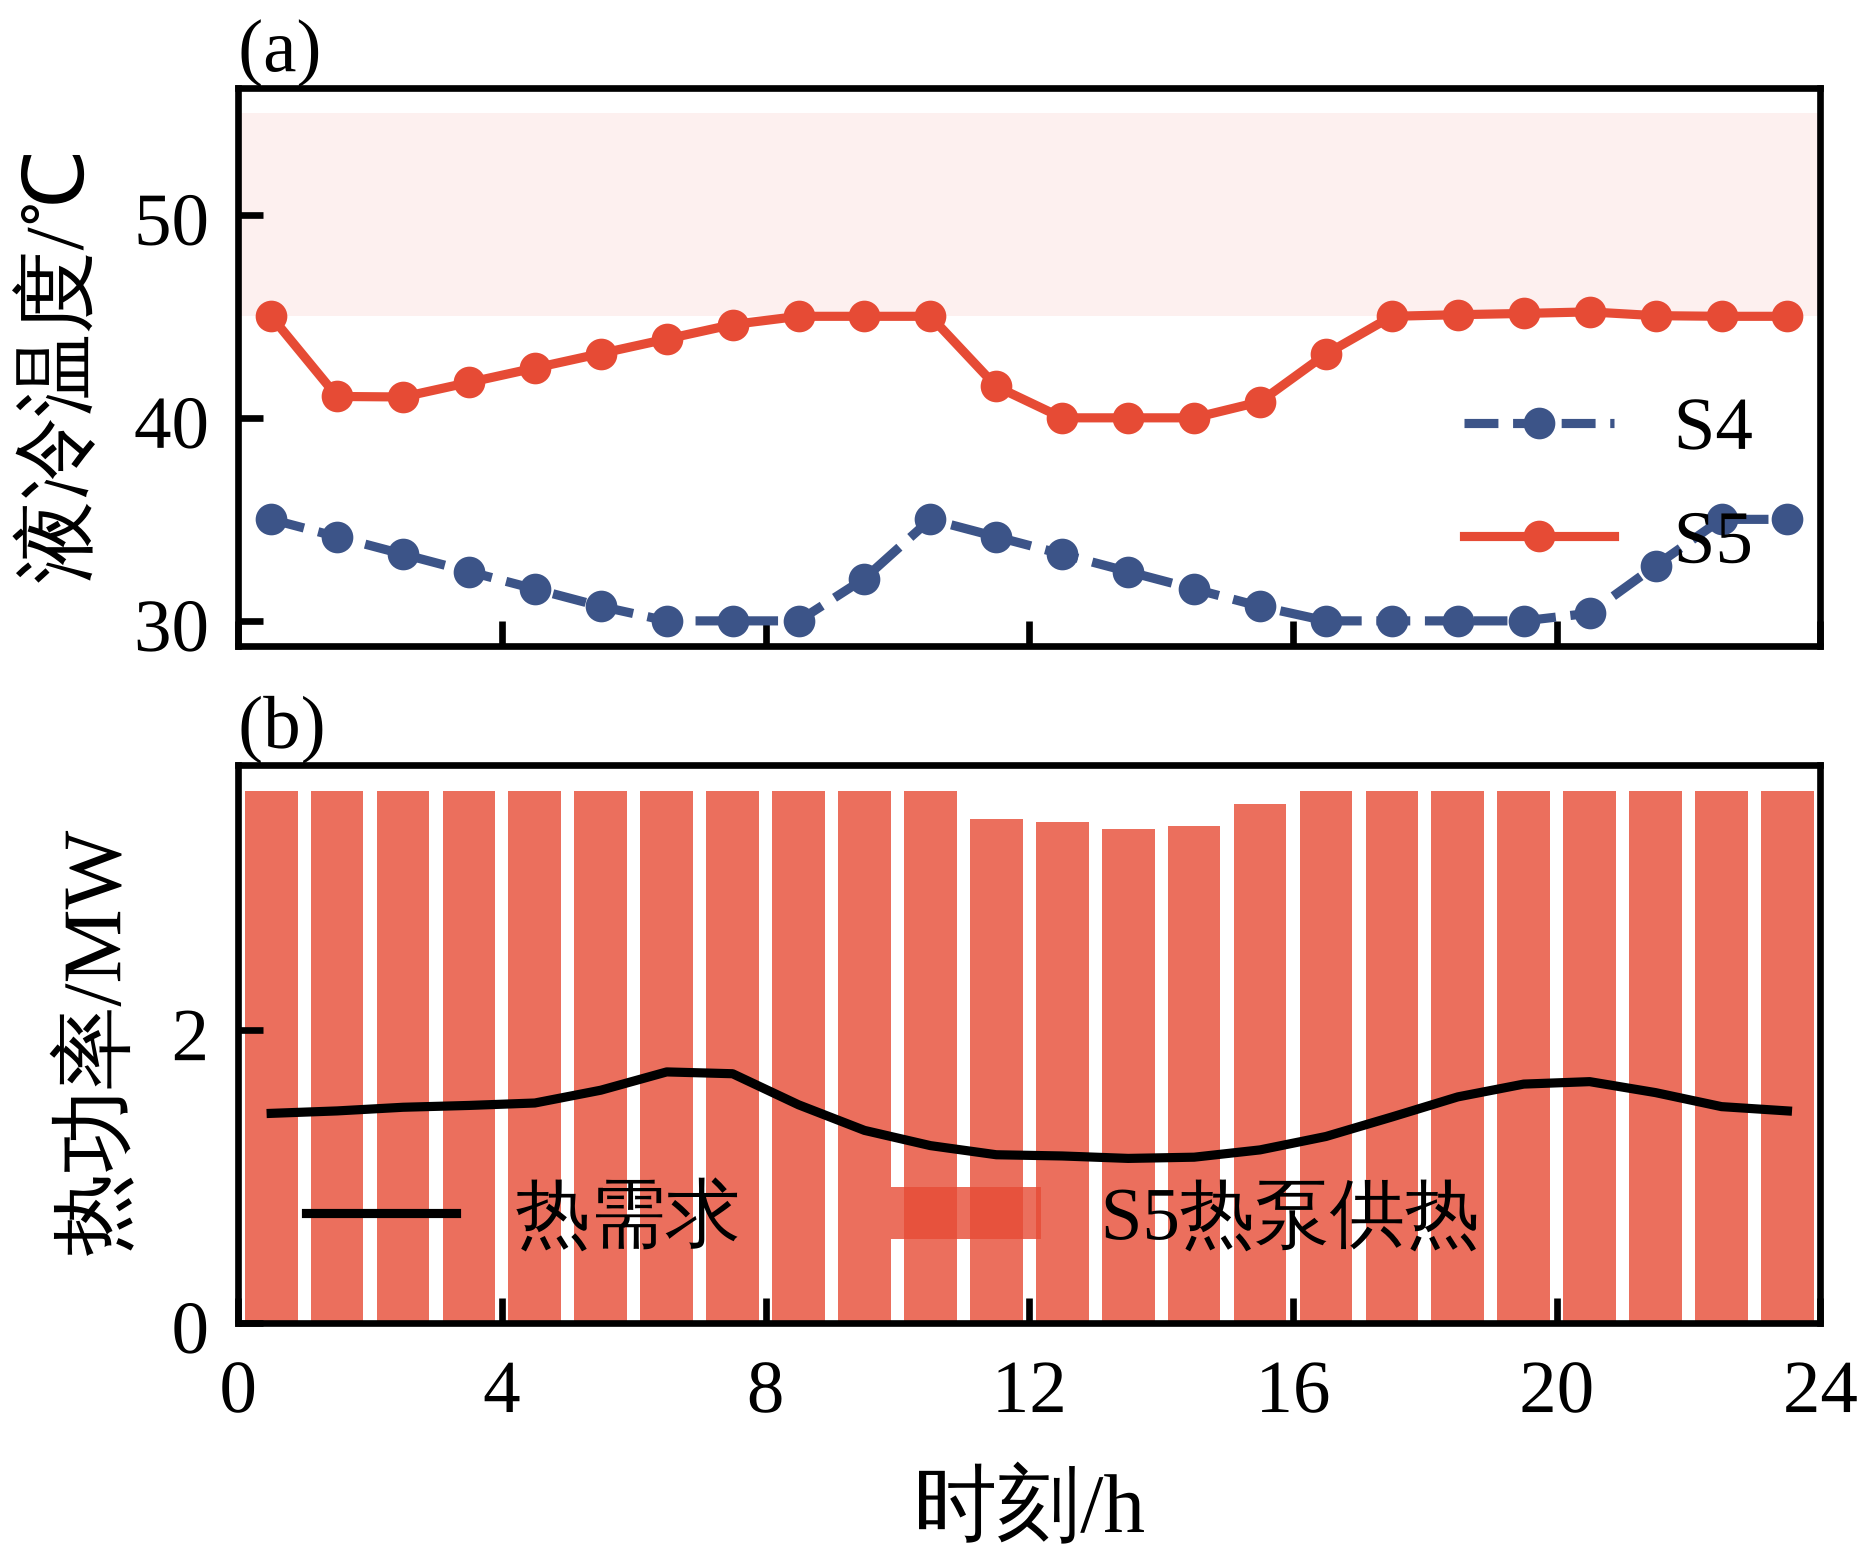
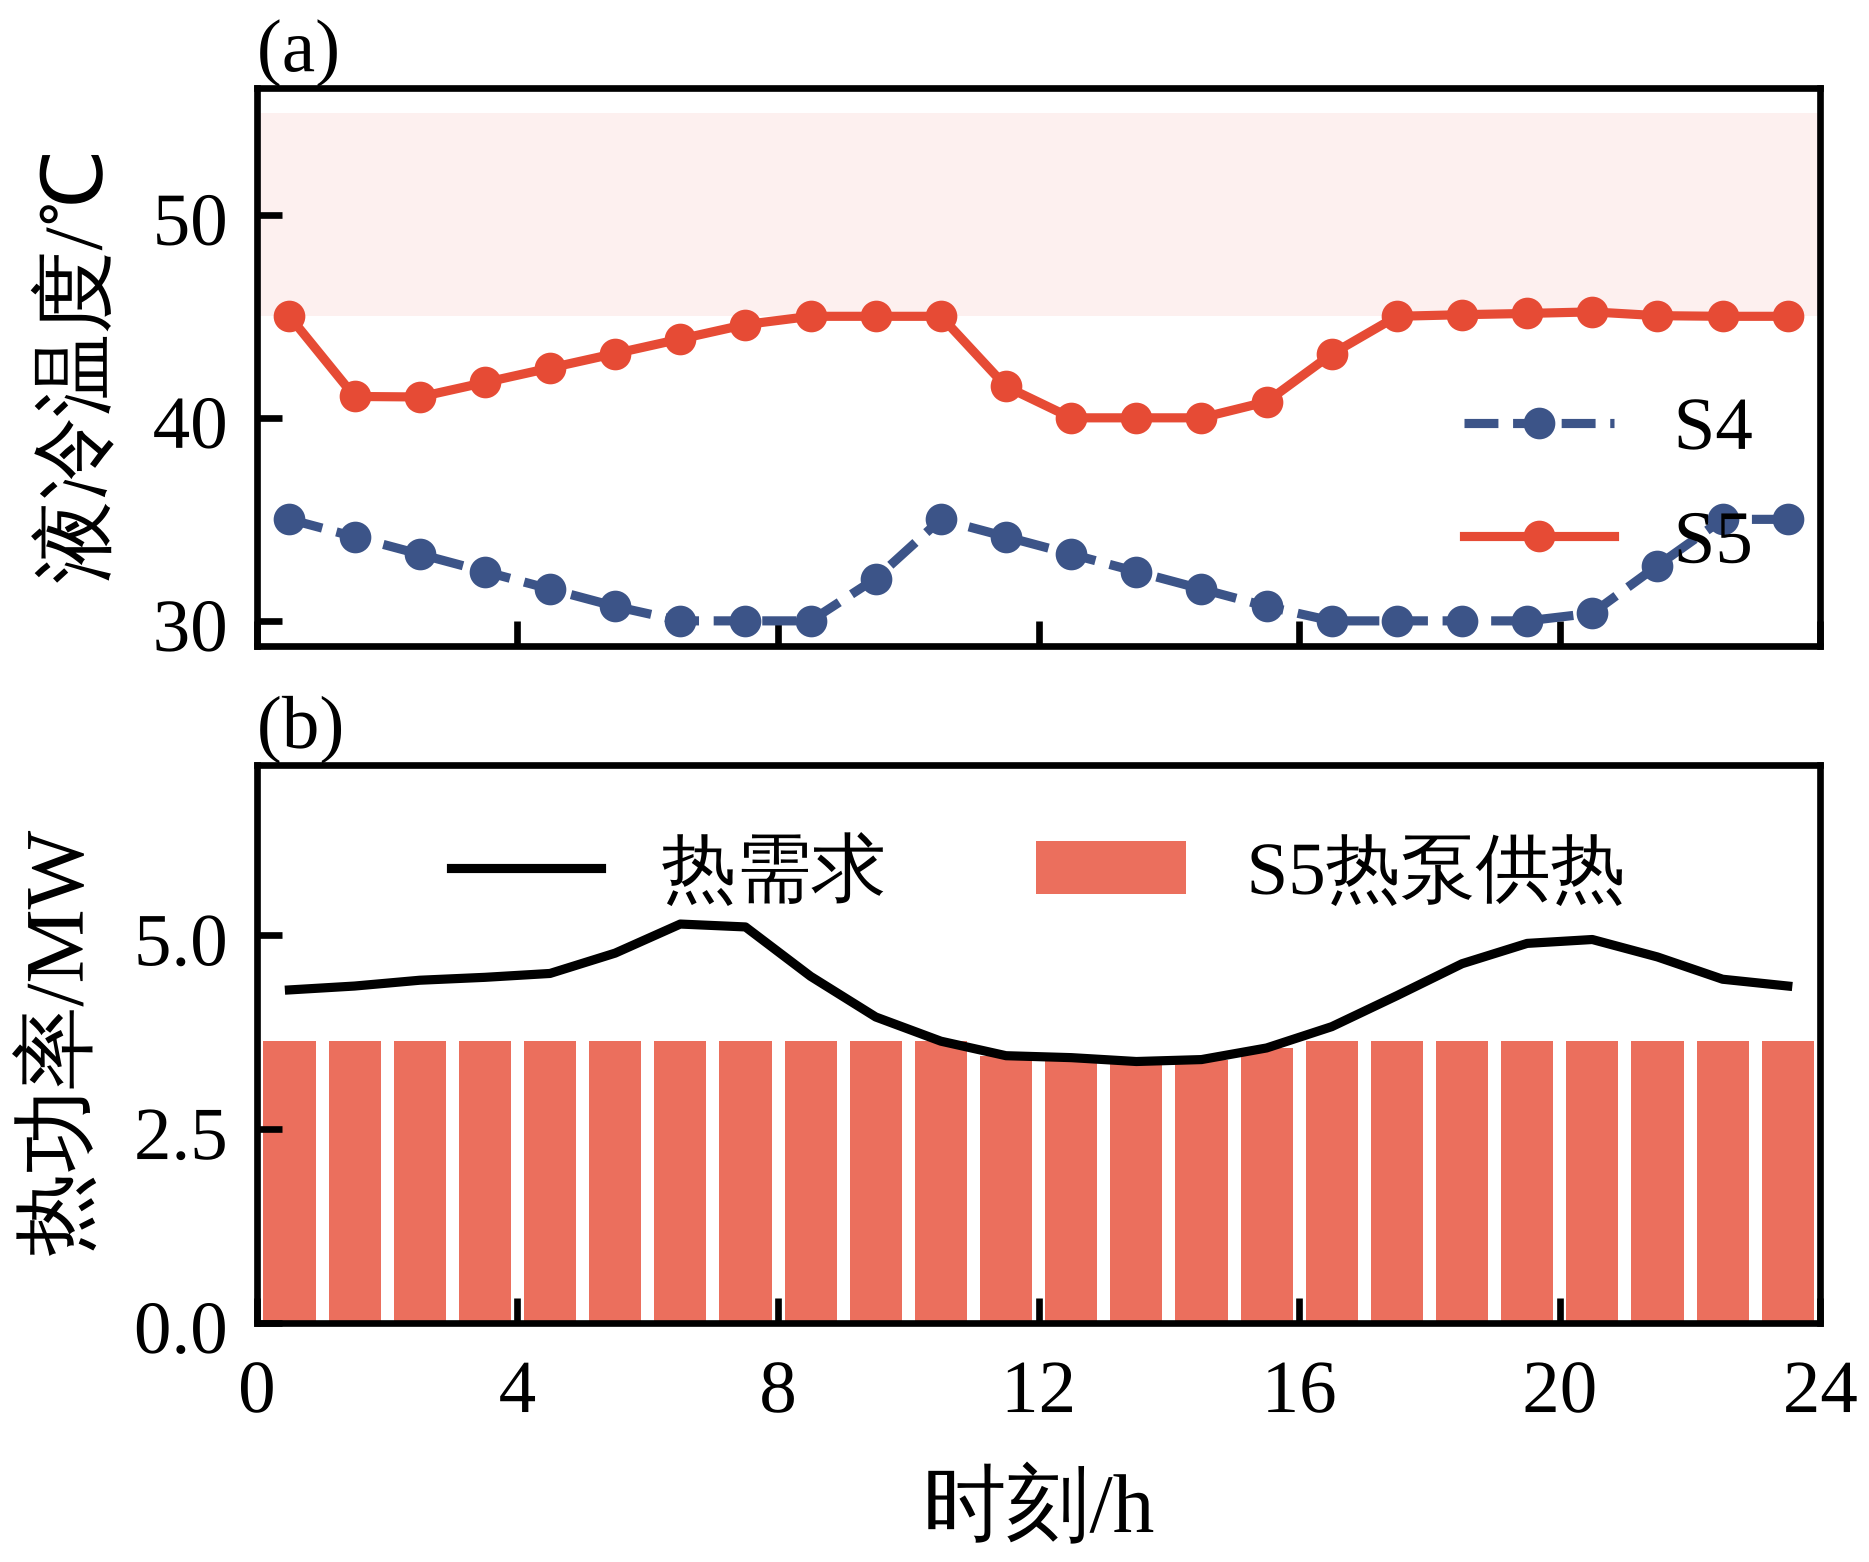
v4 图重绘（修复后数据）
Claude-Session: https://claude.ai/code/session_01TAApdR6hLaGsBrJbJ5bzRE

diff --git a/v3/code/plot_v4.py b/v3/code/plot_v4.py
@@ -170,7 +170,8 @@ def fig_winter():
     axs[0].axhspan(45, 55, color="#E64B35", alpha=0.08, lw=0); axs[0].set_ylabel("液冷温度/℃"); axs[0].legend(loc="lower right")
     axs[0].set_title("(a)", fontsize=9, loc="left", pad=2)
     axs[1].bar(t, hs["热泵供热"] / 1e3, 0.8, color="#E64B35", alpha=0.8, label="S5热泵供热")
-    axs[1].plot(t, hs["热需求"] / 1e3, "k-", lw=1.1, label="热需求"); axs[1].set_ylabel("热功率/MW"); axs[1].legend(loc="lower left", ncol=2)
+    axs[1].plot(t, hs["热需求"] / 1e3, "k-", lw=1.1, label="热需求"); axs[1].set_ylabel("热功率/MW")
+    axs[1].set_ylim(0, hs["热需求"].max() / 1e3 * 1.4); axs[1].legend(loc="upper center", ncol=2)
     axs[1].set_title("(b)", fontsize=9, loc="left", pad=2); hours(axs[1]); fig.tight_layout(h_pad=0.3)
     save(fig, "图11_采暖季典型日余热回收", pd.DataFrame(rows))
 
